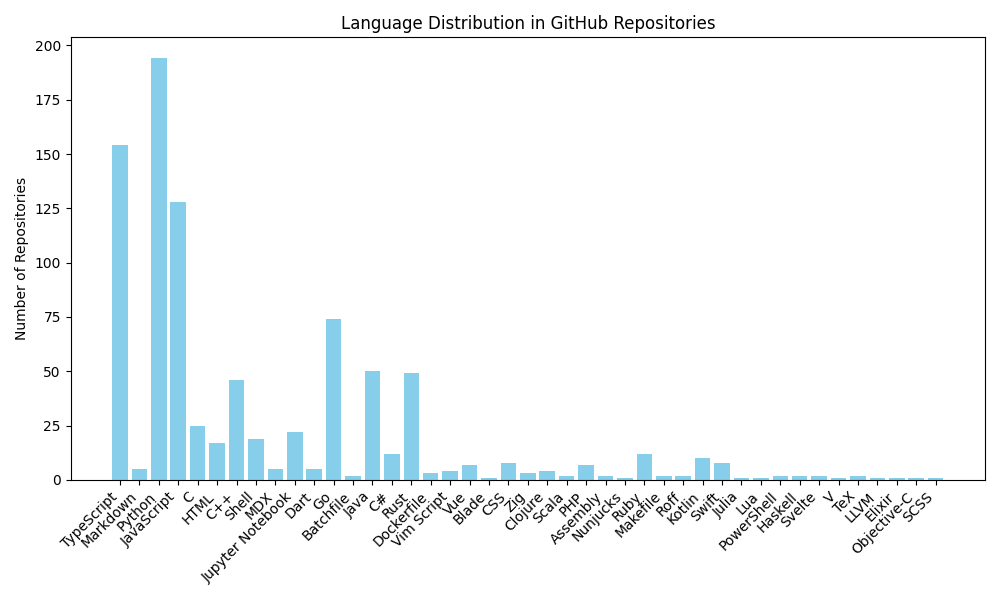
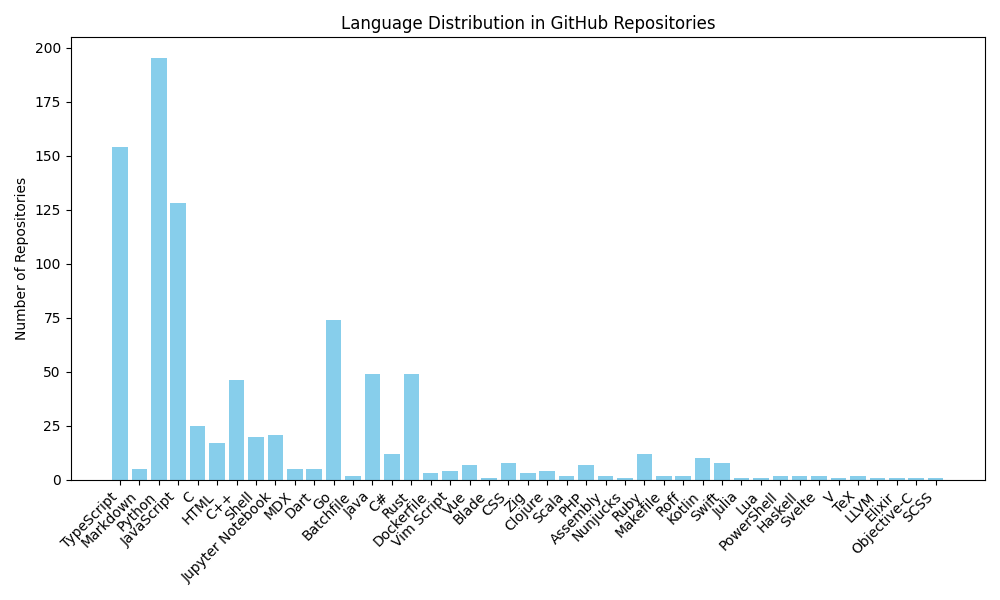
Update language distribution chart

diff --git a/README.md b/README.md
@@ -5,7 +5,7 @@
 Total repositories processed: 898
 
 Language distribution:
-TypeScript: 154, Markdown: 5, Python: 194, JavaScript: 128, C: 25, HTML: 17, C++: 46, Shell: 19, MDX: 5, Jupyter Notebook: 22, Dart: 5, Go: 74, Batchfile: 2, Java: 50, C#: 12, Rust: 49, Dockerfile: 3, Vim Script: 4, Vue: 7, Blade: 1, CSS: 8, Zig: 3, Clojure: 4, Scala: 2, PHP: 7, Assembly: 2, Nunjucks: 1, Ruby: 12, Makefile: 2, Roff: 2, Kotlin: 10, Swift: 8, Julia: 1, Lua: 1, PowerShell: 2, Haskell: 2, Svelte: 2, V: 1, TeX: 2, LLVM: 1, Elixir: 1, Objective-C: 1, SCSS: 1
+TypeScript: 154, Markdown: 5, Python: 195, JavaScript: 128, C: 25, HTML: 17, C++: 46, Shell: 20, Jupyter Notebook: 21, MDX: 5, Dart: 5, Go: 74, Batchfile: 2, Java: 49, C#: 12, Rust: 49, Dockerfile: 3, Vim Script: 4, Vue: 7, Blade: 1, CSS: 8, Zig: 3, Clojure: 4, Scala: 2, PHP: 7, Assembly: 2, Nunjucks: 1, Ruby: 12, Makefile: 2, Roff: 2, Kotlin: 10, Swift: 8, Julia: 1, Lua: 1, PowerShell: 2, Haskell: 2, Svelte: 2, V: 1, TeX: 2, LLVM: 1, Elixir: 1, Objective-C: 1, SCSS: 1
 
 
-_Last updated: 2025-10-19 01:16:37_
+_Last updated: 2025-10-26 01:14:47_
